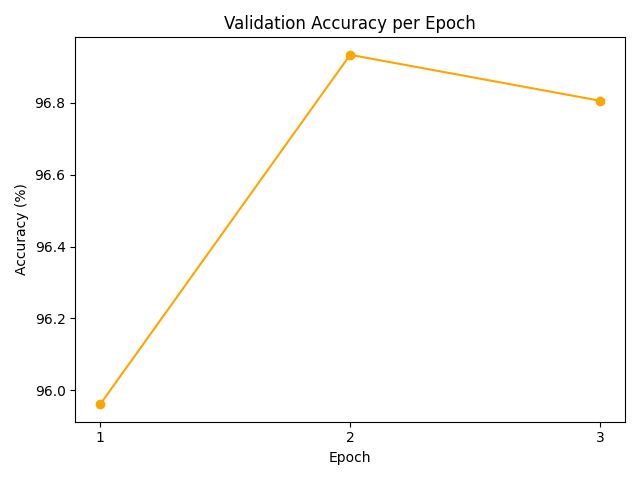
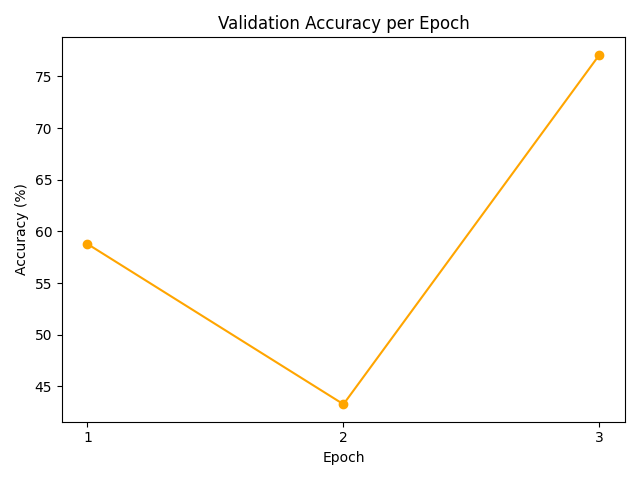
this version should work but causes some errors

diff --git a/src/client_training.py b/src/client_training.py
@@ -2,7 +2,7 @@ import torch
 import copy
 import torch.nn as nn
 import torch.optim as optim
-from torch.utils.data import random_split, DataLoader
+from torch.utils.data import random_split, DataLoader, Subset
 
 from plotting import plot_loss, plot_acc
 
@@ -73,7 +73,7 @@ def aggregate(number_of_samples, client_state_dictionary, global_model):
 
 # Data Loaders
 # Client abstraction, split training dataset into clients
-def create_client_loaders(number_of_clients, mnist_trainset):
+def create_IID_client_loaders(number_of_clients, mnist_trainset):
     trainset_size = len(mnist_trainset)
     client_trainset_size = trainset_size // number_of_clients  # we use // instead of / to remove the fractional part
     client_trainsets = random_split(mnist_trainset,
@@ -83,6 +83,26 @@ def create_client_loaders(number_of_clients, mnist_trainset):
     for dataset in client_trainsets:
         train_loader = DataLoader(dataset, batch_size=64, shuffle=True)
         client_training_loaders.append(train_loader)
+    return client_training_loaders
+
+def create_non_IID_client_loaders(number_of_clients, mnist_trainset):
+    labels = mnist_trainset.dataset.targets if hasattr(mnist_trainset, "dataset") else mnist_trainset.targets # [5,0,1,2,1,4,5....]
+    # group indices by digits
+    label_indices = {i: [] for i in range(10)}
+    for idx, label in enumerate(labels):
+        label_indices[int(label)].append(idx) # sth like 'indices of images that are 0: [1,6,11,...]'
+    # assign digits to clients
+    digits_per_client = 10 // number_of_clients
+    client_training_loaders = []
+    for client in range(number_of_clients):
+        client_indices = []
+        start_digit = client * digits_per_client
+        end_digit = start_digit +  digits_per_client
+        for digit in range(start_digit, end_digit):
+            client_indices.extend(label_indices[digit])
+        client_dataset = Subset(mnist_trainset, client_indices)
+        loader = DataLoader(client_dataset, batch_size=64, shuffle=True)
+        client_training_loaders.append(loader)
     return client_training_loaders
 
 

diff --git a/src/Federated_Learning/FL.py b/src/Federated_Learning/FL.py
@@ -6,17 +6,16 @@ import torch.optim as optim
 import copy
 from torch.utils.data import DataLoader
 from torch.utils.data import random_split # use for data distribution for clients
-
+from collections import Counter
 
 import sys
 import os
 
-from client_training import run_fl
-
+from client_training import run_fl, train_local, evaluate_model, aggregate, create_IID_client_loaders, create_non_IID_client_loaders
+from src.CNN_implementation import CNN
 sys.path.append(os.path.abspath("../.."))
 
-from src.client_training import train_local, evaluate_model, aggregate, create_client_loaders
-from src.CNN_implementation import CNN
+
 
 from src.plotting import plot_loss, plot_acc
 
@@ -40,7 +39,9 @@ global_model = CNN()
 NUMBER_OF_CLIENTS = 5
 # %%
 # Data Loaders
-client_training_loaders = create_client_loaders(number_of_clients = NUMBER_OF_CLIENTS, mnist_trainset = mnist_trainset)
+client_training_loaders = create_non_IID_client_loaders(number_of_clients = NUMBER_OF_CLIENTS, mnist_trainset = mnist_trainset)
+
+
 val_loader = DataLoader(mnist_valset, batch_size = 64, shuffle = False)
 test_loader = DataLoader(mnist_testset, batch_size=64, shuffle=False)
 
